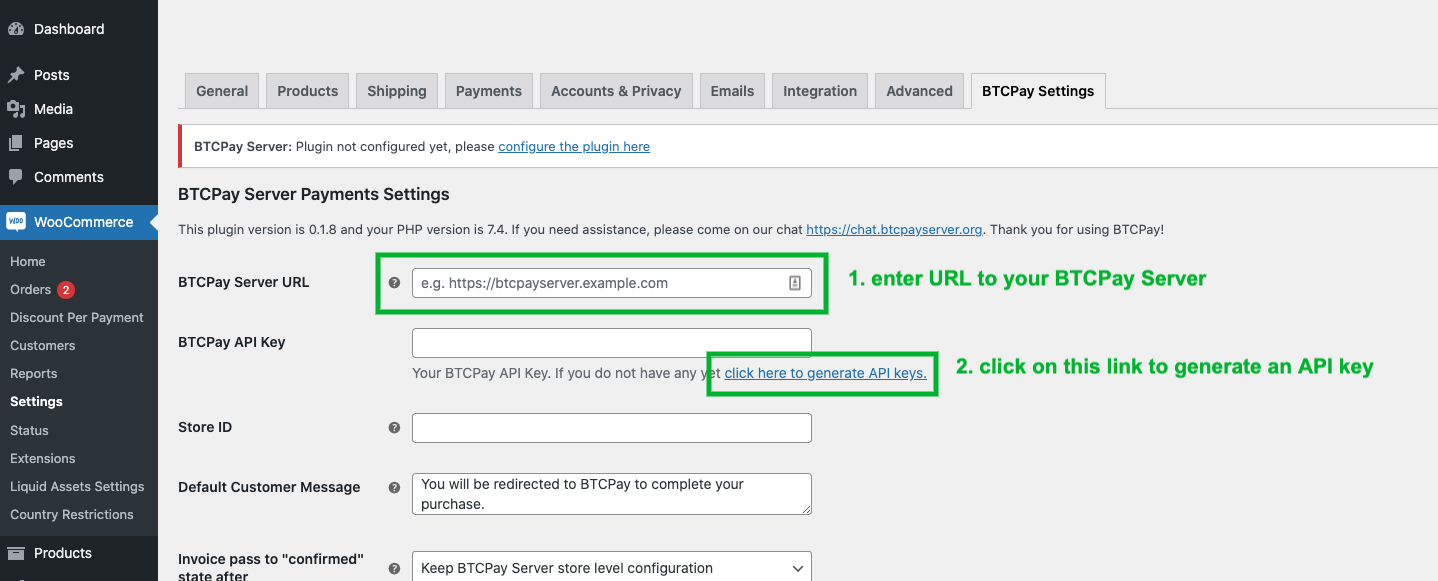
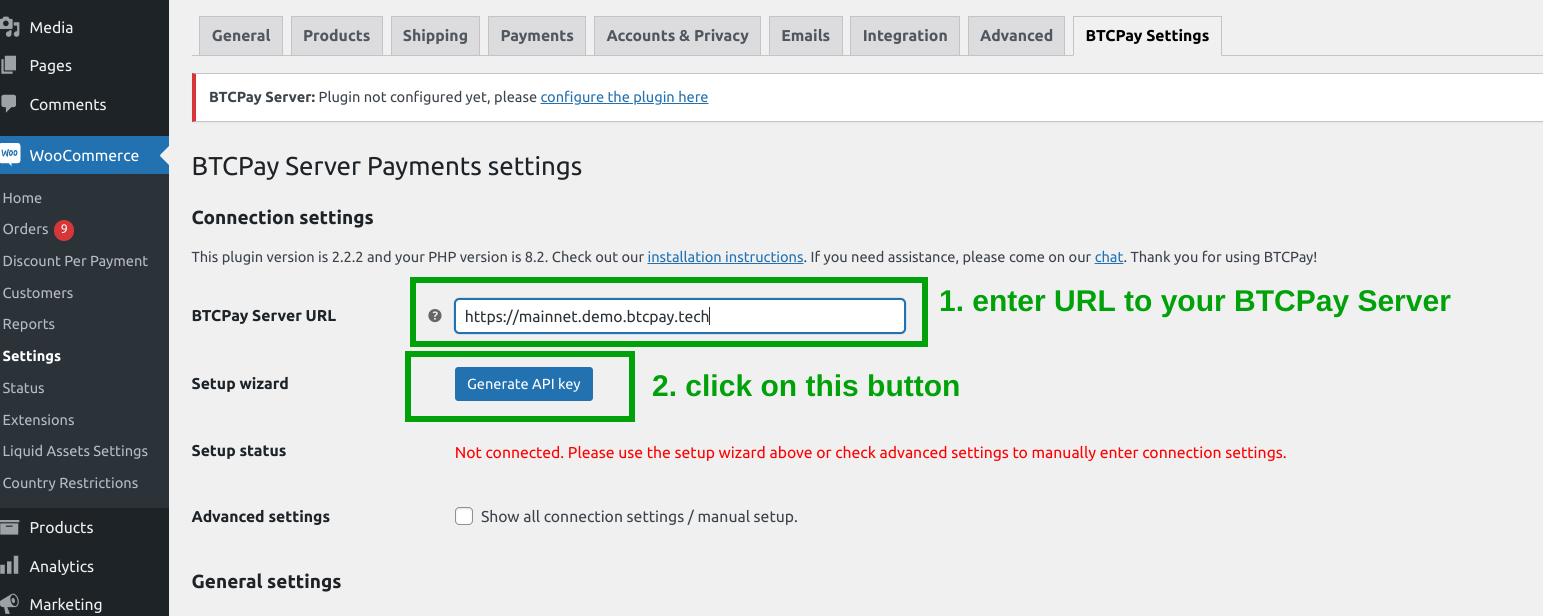
Updating WooCommerece API wizard for refactored settings page.

diff --git a/docs/WooCommerce.md b/docs/WooCommerce.md
@@ -83,12 +83,14 @@ You can either click on the notifications link saying "**please configure the pl
    ![BTCPay WordPress V2: Select store](./img/woocommerce/btcpay-wc-2--05-api-auth-select-store.png)
 5. All required permissions are prefilled already, you just need to click [Authorize app]
    ![BTCPay WordPress V2: Click on authorize app](./img/woocommerce/btcpay-wc-2--06-api-auth-authorize-button.png)
-6. You will get redirected to your WooCommerce store and the API key and Store ID will be prefilled.
+6. You will get redirected back to your WooCommerce store and the API key and Store ID will be prefilled. Additionally, the webhook will have been created automatically for you. Check the "Webhook status" field to show "Webhook setup automatically." followed by an ID.
    ![BTCPay WordPress V2: Redirected back to plugin settings](./img/woocommerce/btcpay-wc-2--07-api-auth-after-redirect-prefilled.png)
-7. Before doing any further configuration click on **[Save]** as it will setup the webhook for you.
+7. Before doing any further configuration click on **[Save]** to be sure all is set.
    ![BTCPay WordPress V2: Webhook created](./img/woocommerce/btcpay-wc-2--08-api-auth-save-webhook-created.png)
 
-Continue with "3. Testing the checkout" below.
+Congratulations, you are almost set. To make the Bitcoin payment gateway show up on your checkout. In the sidebar go to "WooCommerce" -> "Settings", click on the "Payments" tab and enable the "BTCPay (default)" payment gateway.
+
+Continue with "3. Testing the checkout" below to make sure all works as expected.
 
 ### 2.2 Connect by manually creating the API key and permissions
 
